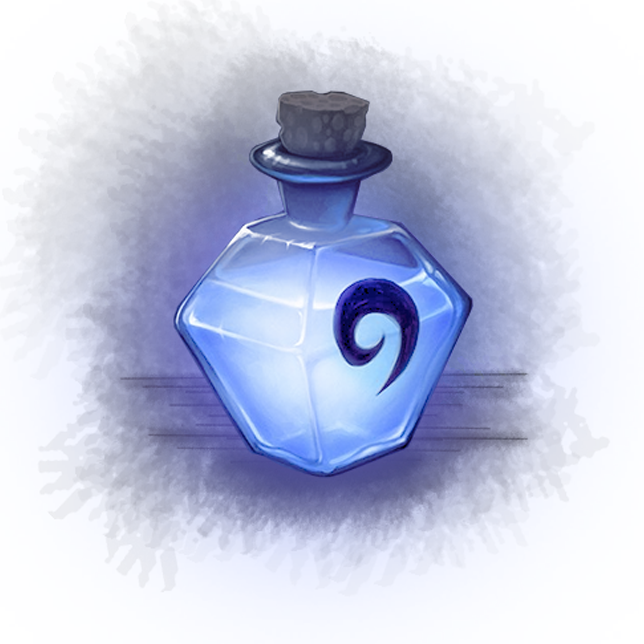
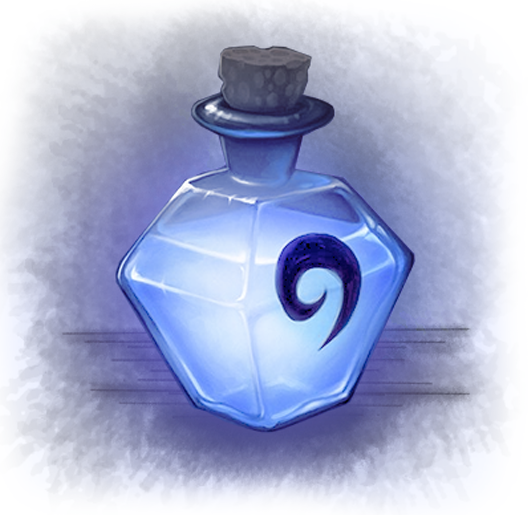
start

diff --git a/styles/style.css b/styles/style.css
@@ -60,7 +60,7 @@ p, a , span{
     padding: 20px;
 }
 .profit-container-right-block img{
-    max-width: 460px;
+    max-width: 415px;
     width: 100%;
 }
 .profit-container{
@@ -97,7 +97,7 @@ p, a , span{
     word-spacing: 2px;
 }
 .btn{
-    font-size: 24px;
+    font-size: 21px;
     font-family: 'Mason Chronicles';
     color: #f4c66f;
     text-shadow: 0px 0px 0 rgb(195,172,136),
@@ -110,15 +110,15 @@ p, a , span{
 .btn-profit{
     background: url("../images/dark-bg-btn.png")no-repeat;
     background-size: contain;
-    height: 44px;
-    width: 156px;
+    height: 40px;
+    width: 142px;
 }
 .btn-profit:hover{
     background: url("../images/bg-btn.png")no-repeat;
     background-size: contain;
 }
 .input-profit{
-    max-width: 136px;
+    max-width: 120px;
     margin-top: 10px;
 }
 .input{
@@ -205,8 +205,8 @@ p, a , span{
     background-size: cover;
 }
 .potion-butl{
-    max-width: 156px;
-    height: 131px;
+    max-width: 150px;
+    height: 125px;
     width: 100%;
     position: relative;
     overflow: hidden;
@@ -215,7 +215,7 @@ p, a , span{
     align-items: center;
 }
 .potion-butl img{
-    max-width: 156px;
+    max-width: 150px;
     width: 100%;
     position: absolute;
     left: 0px;
@@ -229,7 +229,7 @@ p, a , span{
     padding: 5px;
 }
 .item-potion{
-    max-width: 156px;
+    max-width: 150px;
     width: 100%;
 }
 .not-active-butl .active-butl{
@@ -270,7 +270,7 @@ p, a , span{
     bottom: -9px;
     background: url("../images/frame-slider.png")no-repeat;
     background-size: contain;
-    max-width: 159px;
+    max-width: 160px;
     z-index: 100;
     border-radius: 34px;
     -webkit-box-shadow: 0px 4px 5px 0px rgba(0,0,0,0.75);
@@ -296,11 +296,11 @@ p, a , span{
     color: #f2f0e0;
 }
 .container-potion img{
-    max-width: 225px;
+    max-width: 200px;
     width: 100%;
 }
 .container-potion{
-    max-width: 225px;
+    max-width: 200px;
     width: 100%;
 }
 .about-potion{
@@ -329,7 +329,7 @@ p, a , span{
     font-size: 21px;
 }
 .wrapper-list-about-potion{
-    padding: 20px;
+    padding: 10px;
 }
 
 /*---------------block actions-----------*/
@@ -479,7 +479,7 @@ p, a , span{
     flex-direction: column;
     align-items: center;
     width: fit-content;
-    margin: 18px;
+    margin: 10px 18px;
 }
 .list-action{
     display: flex;
@@ -487,8 +487,8 @@ p, a , span{
     justify-content: center;
 }
 .btn-action{
-    width: 150px;
-    height: 44px;
+    width: 137px;
+    height: 40px;
     background: url(../images/dark-bg-btn.png)no-repeat;
     background-size: contain;
     -webkit-box-shadow: 0px 0px 12px 0px rgba(0,0,0,0.86);
